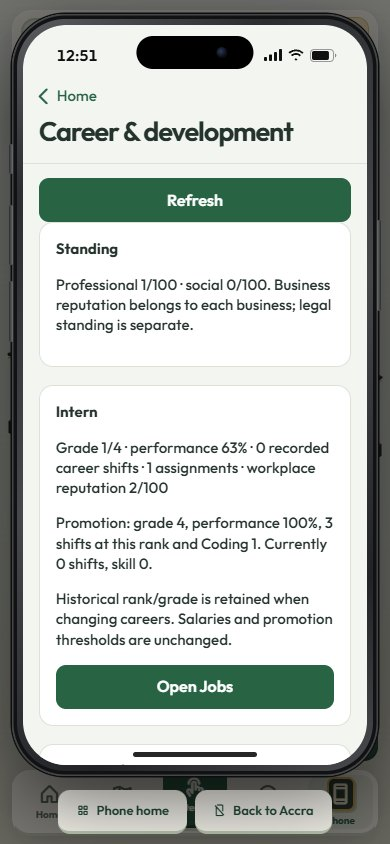
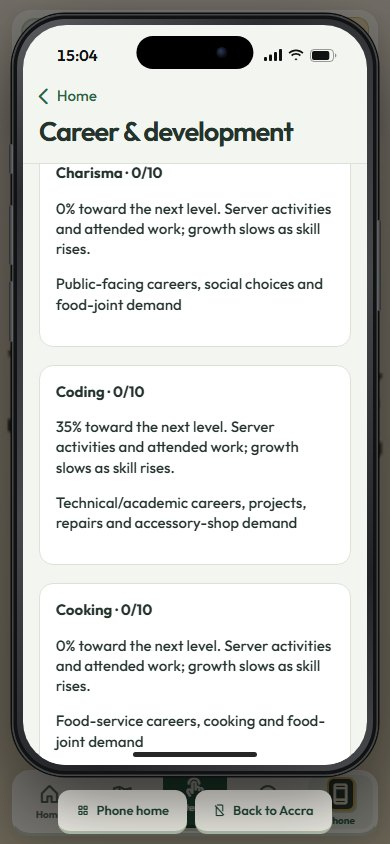
docs: record completed Phase 8 gameplay and container validation

diff --git a/docs/phase8/report.md b/docs/phase8/report.md
@@ -194,6 +194,10 @@ five shifts/week, business three, social two, mixed four, casual two visits/shif
 The model includes basic food/data, capped offline meals, rent, salary tax and
 the actual bounded provision-demand function. Missed rent is counted without
 simulating eviction/relocation. It is a budget stress test, not a full needs model.
+Both starting wallets afford the GH₵28 basic meal/data benchmark immediately;
+the simulation also records later days below that cost. The GH₵960 Jamestown
+advance benchmark is an upgrade from Nima and a cheaper option than Dbee's Osu
+start; it is not presented as a Dbee housing upgrade.
 
 | Style | Hustler mean wallet after 28d | Dbee mean wallet | Hustler mean missed rents |
 | --- | ---: | ---: | ---: |
@@ -221,6 +225,13 @@ Indexes cover own-account history, market status/expiry, business owner,
 relationships and active shared sessions. Migrations are idempotent; the legacy
 relationship import tolerates absent/malformed old fields and uses conflict-safe
 inserts. No existing IDs, balances, birth values or Paystack schemas are replaced.
+
+[Local save compatibility](save-compatibility.json) passes: complete-record hashes
+and counts match before/after migration across fifteen protected tables, including
+all 103 accounts and 103 saved players. Full player JSON, appearance, possessions,
+birth fields and financial records were compared; only player update metadata
+was excluded. There are zero invalid wallets. The original local preview on
+port 8080 now runs Phase 8 using its existing session and birth secret files.
 
 See [deployment/operations notes](operations.md). Rolling back code must retain
 these tables and escrow/credits; dropping them would destroy owned possessions
@@ -257,7 +268,7 @@ release their account lease and remove partial presence entries.
 
 ## 17. Automated tests
 
-[Validation](validation.json) contains the actual run outputs and pending items.
+[Validation](validation.json) contains the actual run outputs and their scope.
 The local server suite passes 73 tests; the clean client candidate passes 60 with
 zero skips. Existing database regressions pass: payments 9, advertising 9, First
 Friend 10 and introductory objectives 6. Phase 8 adds 28 integration scenarios,
@@ -267,8 +278,13 @@ insufficient funds at completion, lost COMMIT confirmation, loading-account and
 internal-queue protection, notification replay and final wallet reconciliation.
 That is 195 automated checks, plus the separately reported 300 simulation runs.
 Production build passes; client and production-server dependency audits report
-zero vulnerabilities. Exact-commit Docker/HTTP/WebSocket/proxy CI is recorded
-separately in validation; a pending result is not a pass.
+zero vulnerabilities. [CI run 38919631137](https://github.com/Daxomar/awd/actions/runs/38919631137)
+passes on Phase 8 code commit `243f295918bf8c097a29b0253e9c63f1974c9f84`,
+including the full Docker stack, cookie-authenticated HTTP/WebSocket smoke and
+proxy health. An earlier integration assertion incorrectly assumed positive net
+profit; it was replaced with exact stored-profit reconciliation and a separate
+zero-income capital contribution/withdrawal check. The successful run includes
+that stronger test. Concurrent character commits are a separate validation scope.
 
 The clean candidate uses committed character assets from 1315e76. Concurrent
 uncommitted Blender/runtime/asset-test edits are not weakened or included here.
@@ -287,13 +303,13 @@ expired/ready timestamps; they are not claimed as natural player progression.
 
 | Journey | Actual exercise |
 | --- | --- |
-| A — Hustler career | Physical application and 90-second assignment; professional/skill history; ongoing real attended shift with saved reconnect continuation. Final paid result remains pending until recorded in validation. |
+| A — Hustler career | Physical application and actual 90-second assignment; sixty real attended minutes pay the unchanged GH₵150 once. Attendance survives reconnect/server restart; skills and professional history persist; two reloads retain one salary and one completed assignment. |
 | B — Entrepreneurship | Hustler funds a provision stall, buys stock, configures prices/open state, makes ten simulated sales, reviews expenses and withdraws till cash; reload persists it. |
 | C — Commerce | Existing Circle phone purchase, escrow, Dbee buyer pays GH₵101 including GH₵1 fee; seller receives GH₵100 once and both reload inventories/finance. |
 | D — Social | Same public room, mutual friendship, actual 30-second conversation, dating acceptance, reload, unilateral breakup and cancellation of another activity on reconnect. |
 | E — Crime | Actual fictional pickpocket outcome: detection, GH₵240 fine, separate legal history and saved finance. No random outcome was forced in the browser. |
 | F — Housing | Dbee travels, earns actual Circle gig income, returns home, buys/uses a cooker, checks expenses, pays GH₵960 Jamestown advance and sees the room rebuild; reload retains the item. |
-| G — Reconnection | Real business contribution with deliberately withheld UI receipt, actual reload and safe same-key retry; ongoing career reconnect/restart; shared-session disconnect with no extra reward. |
+| G — Reconnection | Real business contribution with deliberately withheld UI receipt, actual reload and safe same-key retry; completed career reconnect/restart and paid-result reload; shared-session disconnect with no extra reward. |
 | H — Dbee | Existing career application, accessory operation/stock/sales/statement, real transport, mutual friendship/shared activity and saved career/business after reload. |
 
 Some existing travel/phone-market actions use their ordinary authenticated game
@@ -311,10 +327,10 @@ changes from 49,987,796 to 50,145,560 bytes (+157,764); no sustained DOM/listene
 growth was observed in this small sample. This is not an indefinite leak proof.
 Measured status round trips: median 218.57 ms, nearest-rank p95/max 886.75 ms.
 
-The final integration sample measures 663 PostgreSQL queries: median 0.94 ms,
-p95 6.53 ms, max 2,832.34 ms (includes migration/setup queries). Forty-three life
-actions: median 18.36 ms, p95 40.8 ms, max 372.65 ms. Two bounded settlement
-samples take at most 22.72 ms. These are loopback samples with three main fixture
+The final integration sample measures 687 PostgreSQL queries: median 0.94 ms,
+p95 3.94 ms, max 2,896.01 ms (includes migration/setup queries). Forty-five life
+actions: median 13.65 ms, p95 31.08 ms, max 176.54 ms. Two bounded settlement
+samples take at most 20.76 ms. These are loopback samples with three main fixture
 participants/two competing buyers, not a production-load or multi-shard capacity
 certification. Raw measurements are preserved in validation.
 
@@ -338,6 +354,7 @@ and misleading state. Small/landscape phone content scrolls inside the handset.
 The diagnostics above apply; no design mockups substitute for gameplay.
 
 - [Career and promotion eligibility](../images/phase8/career-promotion-eligibility.jpg), [skills](../images/phase8/skills.jpg).
+- [Persistent paid shift](../images/phase8/career-paid-persistent.jpg), [saved career history](../images/phase8/career-persistent-history.jpg).
 - [Business setup](../images/phase8/business-setup.jpg), [stock/pricing](../images/phase8/business-stock-and-pricing.jpg), [statement](../images/phase8/business-financial-statement.jpg).
 - [Trade escrow](../images/phase8/trade-escrow.jpg), [purchase](../images/phase8/trade-purchase.jpg), [unconfirmed business recovery](../images/phase8/business-unconfirmed-reconnect.jpg).
 - [Friend consent](../images/phase8/friendship-consent.jpg), [shared activity](../images/phase8/shared-activity.jpg), [persistent dating](../images/phase8/relationship-persistent.jpg).
@@ -358,6 +375,8 @@ fonts retain their existing licences; no new media licence is required. Budget G
 - Managed demand is numerical; shops are phone-managed, not staffed by Phase 7 NPCs.
 - Commerce supports the existing Circle phone inventory, not every item category.
 - Shared meals/exercise use existing eligible public venues; no invented locations.
+- Legacy paired gestures use shared-conversation consent; no new paired character
+  animation is introduced in this systems milestone.
 - Relationship interactions require a current shared shard; DMs/credits retain
   their existing wider delivery. Legacy asymmetric friendships need fresh consent.
 - Financial/life audit tables and action receipts need a future retention/archival
@@ -365,8 +384,8 @@ fonts retain their existing licences; no new media licence is required. Budget G
 - Local contention produced timeouts during early runs. Recovery safeguards and
   bounded configurable connection waits were added; this is not load certification.
 - Physical-device, sustained multi-shard/load and real-provider sandbox-release
-  checks remain release work. Local Docker availability is reported honestly;
-  container validation must be tied to the exact CI commit.
+  checks remain release work. Docker Desktop was unavailable locally; Linux CI
+  passed the full container stack on the exact Phase 8 code commit linked above.
 - No movement overhaul, autonomous NPCs, character redesign or Phase 9 is included.
 
 ## 23. Changes requiring separate approval
